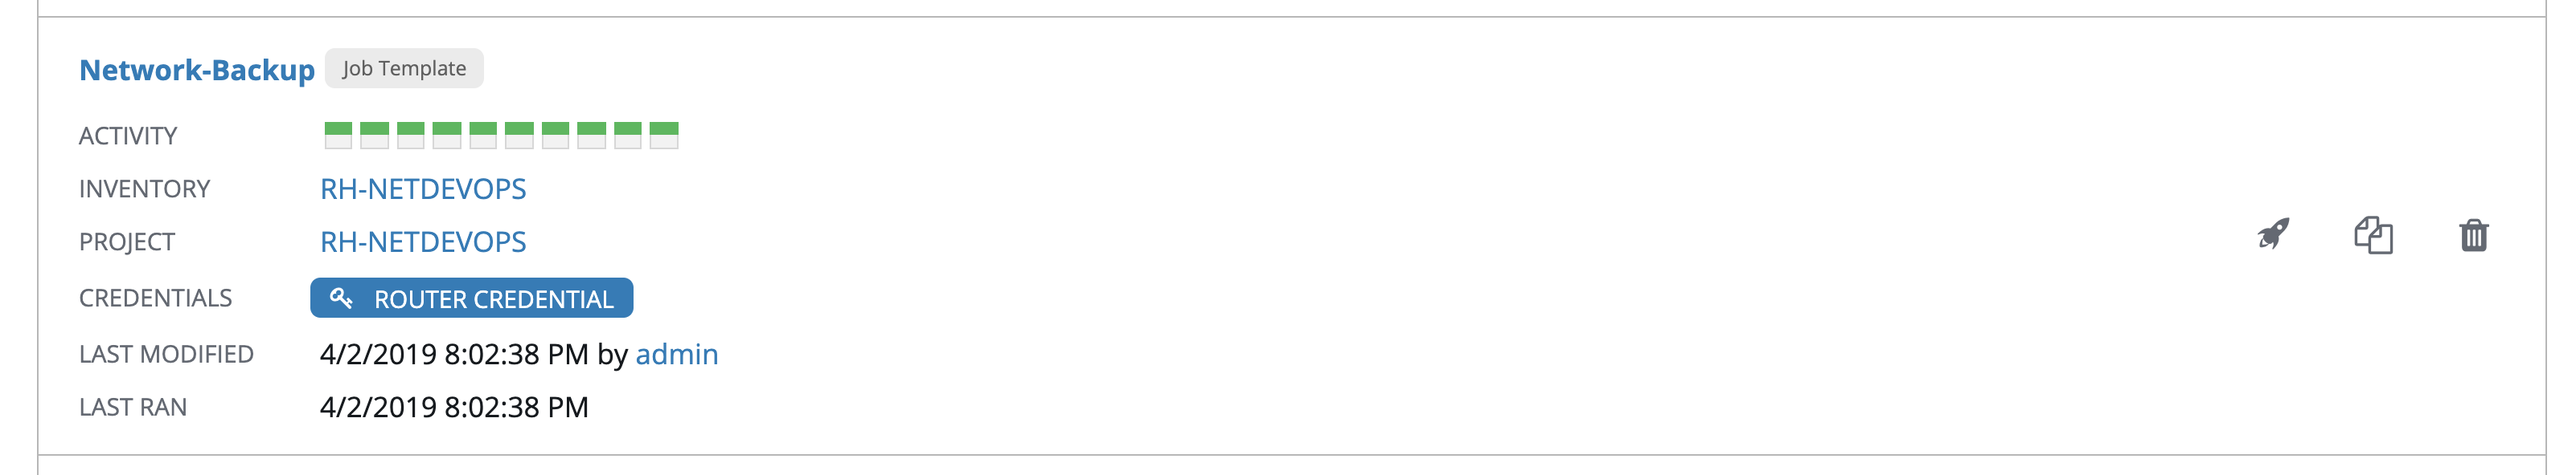
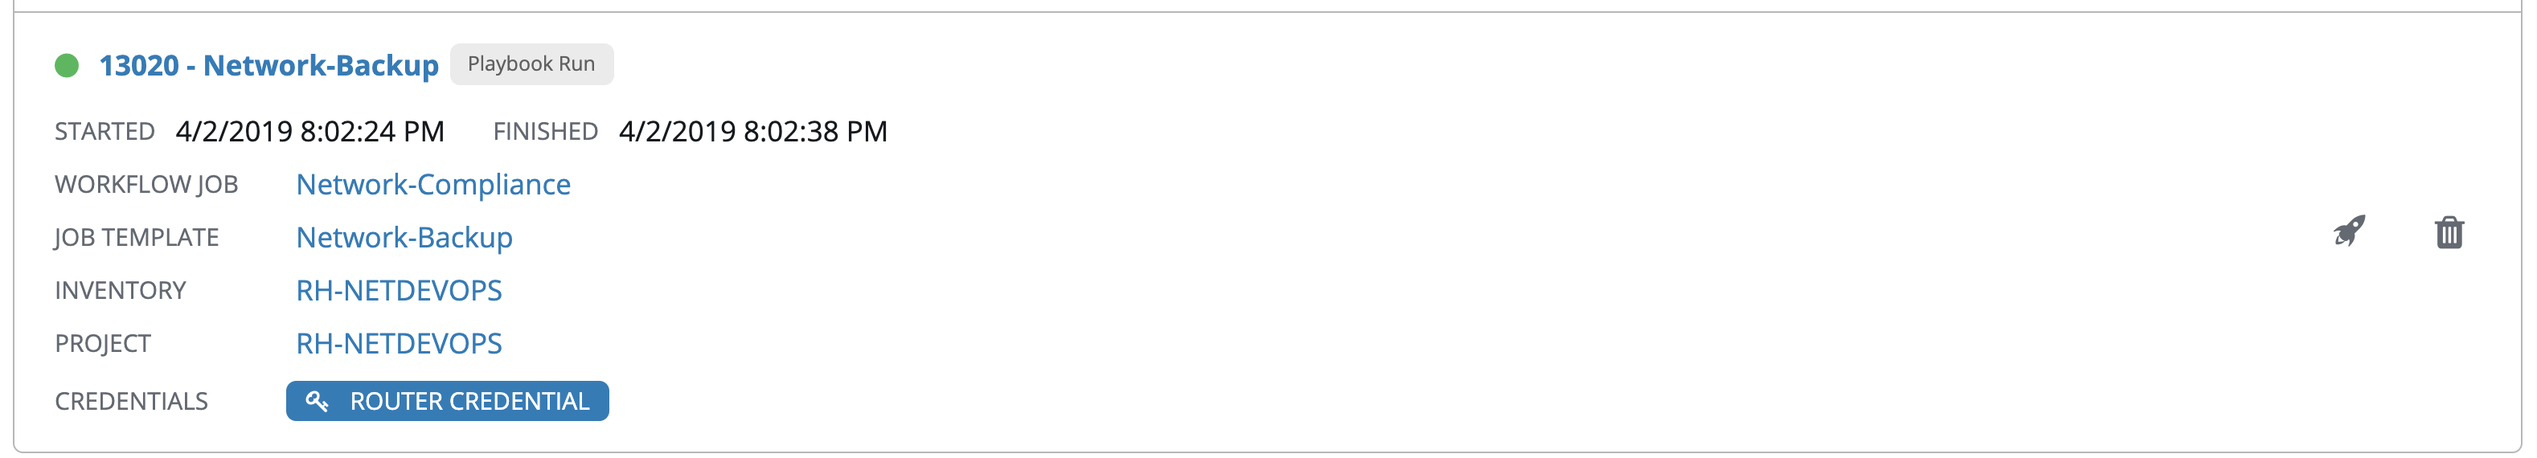
update images with new template name

diff --git a/exercises/ansible_network/exercises/4-X-tower-job-template/README.md b/exercises/ansible_network/exercises/4-X-tower-job-template/README.md
@@ -61,7 +61,7 @@ The **Standard Out pane** will match the output from the Playbook itself.
 
 ![job details view](images/jobfinish.png)
 
-If there is issues with your **BACKUP NETWORK CONFIG** job completing successfully please make sure you hostvars match what you have in inventory.  It is highly recommended to use the tower_setup.yml playbook from the previous exercise if you hit any problems.  To automate the setup of your inventory, credentials and project so that manual mistakes won't be made.  
+If there is issues with your **Network-Backup** job completing successfully please make sure you hostvars match what you have in inventory.  It is highly recommended to use the tower_setup.yml playbook from the previous exercise if you hit any problems.  To automate the setup of your inventory, credentials and project so that manual mistakes won't be made.  
 
 ## Step 3
 
@@ -73,7 +73,7 @@ The Jobs link displays a list of jobs and their status–shown as completed succ
 
 ![jobs link](images/jobslink.png)
 
-The **BACKUP NETWORK CONFIG** job was the most recent (unless you have been launching more jobs).  Click on this job to return to the **Job Details View**.  Tower will save the history of every job launched and it is possible to see down to the task level of what happened on a particular job.
+The **Network-Backup** job was the most recent (unless you have been launching more jobs).  Click on this job to return to the **Job Details View**.  Tower will save the history of every job launched and it is possible to see down to the task level of what happened on a particular job.
 
 
 
